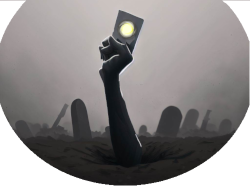
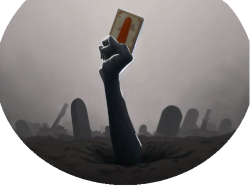
bug fixed; arcanemorphose image

diff --git a/theSorcerer/src/main/java/theSorcerer/modifiers/ElementalCostMod.java b/theSorcerer/src/main/java/theSorcerer/modifiers/ElementalCostMod.java
@@ -3,11 +3,15 @@ package theSorcerer.modifiers;
 import basemod.abstracts.AbstractCardModifier;
 import basemod.interfaces.AlternateCardCostModifier;
 import com.evacipated.cardcrawl.modthespire.lib.*;
+import com.megacrit.cardcrawl.actions.utility.UseCardAction;
 import com.megacrit.cardcrawl.cards.AbstractCard;
 import com.megacrit.cardcrawl.characters.AbstractPlayer;
+import com.megacrit.cardcrawl.core.AbstractCreature;
 import com.megacrit.cardcrawl.monsters.AbstractMonster;
 import javassist.CtBehavior;
 import theSorcerer.DynamicDungeon;
+import theSorcerer.cards.DynamicCard;
+import theSorcerer.util.ElementAmount;
 
 import static theSorcerer.modifiers.CardModifier.ELEMENTCOST;
 
@@ -17,9 +21,15 @@ public class ElementalCostMod extends AbstractCardModifier implements AlternateC
 
     private static final String ELEMENTCOST_DESCRIPTION = ID + ". NL ";
 
+    private boolean elementCostCardPlayed = false;
+
     @Override
     public int getAlternateResource(AbstractCard card) {
-        return DynamicDungeon.getElementAmount();
+        return DynamicDungeon.getElementAmount().getAmount();
+    }
+
+    public void onUse(AbstractCard card, AbstractCreature target, UseCardAction action) {
+        this.elementCostCardPlayed = true;
     }
 
     @Override
@@ -32,19 +42,40 @@ public class ElementalCostMod extends AbstractCardModifier implements AlternateC
         return true;
     }
 
-    // TODOO: use patch to set element amount and use it in use of the card
     @Override
     public int spendAlternateCost(AbstractCard card, int costToSpend) {
-        int resource = getAlternateResource(card);
+        final ElementAmount elementAmount = DynamicDungeon.getElementAmount();
+        final int resource = elementAmount.getAmount();
         if (resource > costToSpend) {
-            DynamicDungeon.loseElements(costToSpend);
+            loseElements(card, elementAmount, costToSpend);
             costToSpend = 0;
         }
         else if (resource > 0) {
-            DynamicDungeon.loseElements(resource);
+            loseElements(card, elementAmount, resource);
             costToSpend -= resource;
         }
         return costToSpend;
+    }
+
+    private void loseElements(
+            final AbstractCard card,
+            final ElementAmount currentElementAmount,
+            final int costToSpend
+    ) {
+        if (!this.elementCostCardPlayed) {
+            return;
+        }
+        this.elementCostCardPlayed = false;
+
+        DynamicDungeon.loseElements(costToSpend);
+        if (card instanceof DynamicCard) {
+            ((DynamicCard) card).triggerOnElementCost(
+                    new ElementAmount(
+                            currentElementAmount.isHeated() ? costToSpend : 0,
+                            currentElementAmount.isChilled() ? costToSpend : 0
+                    )
+            );
+        }
     }
 
     @Override

diff --git a/theSorcerer/src/main/java/theSorcerer/cards/Renounce.java b/theSorcerer/src/main/java/theSorcerer/cards/Renounce.java
@@ -4,6 +4,7 @@ import com.megacrit.cardcrawl.characters.AbstractPlayer;
 import com.megacrit.cardcrawl.monsters.AbstractMonster;
 import theSorcerer.DynamicDungeon;
 import theSorcerer.modifiers.CardModifier;
+import theSorcerer.util.ElementAmount;
 
 public class Renounce extends SorcererCard {
 
@@ -12,6 +13,8 @@ public class Renounce extends SorcererCard {
     private static final int CARD_AMOUNT_DRAW = 1;
     private static final int ENERGY_GAIN = 1;
     // --- VALUES END ---
+
+    private ElementAmount elementAmountSpend = ElementAmount.empty();
 
     public Renounce() {
         super(
@@ -26,19 +29,19 @@ public class Renounce extends SorcererCard {
     }
 
     @Override
+    public void triggerOnElementCost(final ElementAmount elementAmountSpend) {
+        this.elementAmountSpend = elementAmountSpend;
+    }
+
+    @Override
     public void use(AbstractPlayer player, AbstractMonster monster) {
-        int heatedAmount = DynamicDungeon.getHeatedAmount();
-        int chilledAmount = DynamicDungeon.getChilledAmount();
-        if (this.upgraded) {
-            heatedAmount = DynamicDungeon.getElementAmount();
-            chilledAmount = heatedAmount;
+        if (this.elementAmountSpend.isHeated() || (this.upgraded && this.elementAmountSpend.hasAmount())) {
+            DynamicDungeon.gainEnergy(this.magicNumber * this.elementAmountSpend.getAmount());
+        }
+        if (this.elementAmountSpend.isChilled() || (this.upgraded && this.elementAmountSpend.hasAmount())) {
+            DynamicDungeon.drawCard(this.magicNumber * this.elementAmountSpend.getAmount());
         }
 
-        if (heatedAmount > 0) {
-            DynamicDungeon.gainEnergy(this.magicNumber * heatedAmount);
-        }
-        if (chilledAmount > 0) {
-            DynamicDungeon.drawCard(this.magicNumber * chilledAmount);
-        }
+        this.elementAmountSpend = ElementAmount.empty();
     }
 }

diff --git a/theSorcerer/src/main/java/theSorcerer/actions/ElementalPathAction.java b/theSorcerer/src/main/java/theSorcerer/actions/ElementalPathAction.java
@@ -2,13 +2,15 @@ package theSorcerer.actions;
 
 import com.megacrit.cardcrawl.actions.AbstractGameAction;
 import theSorcerer.DynamicDungeon;
+import theSorcerer.util.ElementAmount;
 
 public class ElementalPathAction extends AbstractGameAction {
 
     @Override
     public void update() {
-        int elementAmount = DynamicDungeon.getElementAmount();
-        if (elementAmount > 0) {
+        final ElementAmount elementAmount = DynamicDungeon.getElementAmount();
+
+        if (elementAmount.hasAmount()) {
             switchElements(elementAmount);
         }
 
@@ -16,13 +18,13 @@ public class ElementalPathAction extends AbstractGameAction {
         this.actionType = ActionType.SPECIAL;
     }
 
-    private void switchElements(final int elementAmount) {
+    private void switchElements(final ElementAmount elementAmount) {
         DynamicDungeon.loseAllElements();
-        if (DynamicDungeon.isHeated()) {
-            DynamicDungeon.applyChilled(elementAmount);
+        if (elementAmount.isHeated()) {
+            DynamicDungeon.applyChilled(elementAmount.getHeated());
         }
-        else if (DynamicDungeon.isChilled()) {
-            DynamicDungeon.applyHeated(elementAmount);
+        else if (elementAmount.isChilled()) {
+            DynamicDungeon.applyHeated(elementAmount.getChilled());
         }
     }
 }

diff --git a/theSorcerer/src/main/java/theSorcerer/effect/CampfireArcanemorphoseEffect.java b/theSorcerer/src/main/java/theSorcerer/effect/CampfireArcanemorphoseEffect.java
@@ -38,7 +38,7 @@ public class CampfireArcanemorphoseEffect extends AbstractGameEffect {
     }
 
 
-    // TODO beautify
+    // TODOO beautify
     @Override
     public void update() {
         if (!AbstractDungeon.isScreenUp) {
@@ -52,12 +52,12 @@ public class CampfireArcanemorphoseEffect extends AbstractGameEffect {
 
             while(var1.hasNext()) {
                 AbstractCard c = (AbstractCard)var1.next();
-                AbstractDungeon.effectsQueue.add(new UpgradeShineEffect((float)Settings.WIDTH / 2.0F, (float)Settings.HEIGHT / 2.0F));
                 CardCrawlGame.metricData.addCampfireChoiceData("ARCANE", c.getMetricID());
                 AbstractCardPatch.arcane.set(c, true);
                 DynamicDungeon.modifyCardInDeck(c);
                 DynamicDungeon.withRelicDo(TreeOfLife.class, AbstractRelic::flash);
                 AbstractDungeon.effectsQueue.add(new ShowCardBrieflyEffect(c.makeStatEquivalentCopy()));
+                AbstractDungeon.topLevelEffects.add(new UpgradeShineEffect((float)Settings.WIDTH / 2.0F, (float)Settings.HEIGHT / 2.0F));
             }
 
             AbstractDungeon.gridSelectScreen.selectedCards.clear();

diff --git a/theSorcerer/src/main/java/theSorcerer/DynamicDungeon.java b/theSorcerer/src/main/java/theSorcerer/DynamicDungeon.java
@@ -1,5 +1,6 @@
 package theSorcerer;
 
+import basemod.Pair;
 import basemod.abstracts.AbstractCardModifier;
 import basemod.cardmods.EtherealMod;
 import basemod.cardmods.ExhaustMod;
@@ -42,6 +43,7 @@ import theSorcerer.relics.DynamicRelic;
 import theSorcerer.relics.ElementalMaster;
 import theSorcerer.relics.ElementalPets;
 import theSorcerer.relics.ProtectingGloves;
+import theSorcerer.util.ElementAmount;
 
 import java.util.*;
 import java.util.function.Consumer;
@@ -398,12 +400,8 @@ public class DynamicDungeon {
         return amount;
     }
 
-    public static int getElementAmount() {
-        int amount = DynamicDungeon.getHeatedAmount();
-        if (amount <= 0) {
-            amount = DynamicDungeon.getChilledAmount();
-        }
-        return amount;
+    public static ElementAmount getElementAmount() {
+        return new ElementAmount(getHeatedAmount(), getChilledAmount());
     }
 
     public static void loseHeated() {

diff --git a/theSorcerer/src/main/java/theSorcerer/ui/campfire/ArcanemorphoseOption.java b/theSorcerer/src/main/java/theSorcerer/ui/campfire/ArcanemorphoseOption.java
@@ -5,6 +5,8 @@ import com.megacrit.cardcrawl.helpers.ImageMaster;
 import com.megacrit.cardcrawl.ui.campfire.AbstractCampfireOption;
 import theSorcerer.effect.CampfireArcanemorphoseEffect;
 
+import static theSorcerer.KirbyDeeMod.makeUiPath;
+
 public class ArcanemorphoseOption extends AbstractCampfireOption {
 
     private static final String[] TEXT = new String[] {"Arcanemorphose", "Change a card in your deck to become Arcane."}; // TODOO
@@ -13,7 +15,11 @@ public class ArcanemorphoseOption extends AbstractCampfireOption {
         this.usable = active;
         this.label = TEXT[0];
         this.description = TEXT[1];
-        this.img = ImageMaster.CAMPFIRE_TOKE_BUTTON; // TODOO
+        this.img = ImageMaster.loadImage(getImagePath());
+    }
+
+    private static String getImagePath() {
+        return makeUiPath("campfire/arcanemorphose.png");
     }
 
     public void useOption() {

diff --git a/theSorcerer/src/main/java/theSorcerer/util/ElementAmount.java b/theSorcerer/src/main/java/theSorcerer/util/ElementAmount.java
@@ -1,0 +1,44 @@
+package theSorcerer.util;
+
+public class ElementAmount {
+
+    private final int heated;
+    
+    private final int chilled;
+
+    public ElementAmount(
+            int heated,
+            int chilled
+    ) {
+        this.heated = heated;
+        this.chilled = chilled;
+    }
+
+    public static ElementAmount empty() {
+        return new ElementAmount(0, 0);
+    }
+
+    public boolean hasAmount() {
+        return isHeated() || isChilled();
+    }
+
+    public boolean isHeated() {
+        return this.heated > 0;
+    }
+
+    public boolean isChilled() {
+        return this.chilled > 0;
+    }
+
+    public int getAmount() {
+        return Math.max(this.heated, this.chilled);
+    }
+
+    public int getHeated() {
+        return this.heated;
+    }
+
+    public int getChilled() {
+        return this.chilled;
+    }
+}

diff --git a/theSorcerer/src/main/java/theSorcerer/cards/arcane/ArcaneComets.java b/theSorcerer/src/main/java/theSorcerer/cards/arcane/ArcaneComets.java
@@ -11,8 +11,8 @@ public class ArcaneComets extends SorcererArcaneCard {
     // --- VALUES START ---
     private static final int COST = 2;
     private static final int DAMAGE = 2;
-    private static final int UPGRADE_DAMAGE = 1;
     private static final int DAMAGE_TIMES = 4;
+    private static final int UPGRADE_DAMAGE_TIMES = 1;
     // --- VALUES END ---
 
     public ArcaneComets() {
@@ -40,6 +40,6 @@ public class ArcaneComets extends SorcererArcaneCard {
 
     @Override
     protected void upgradeValues() {
-        upgradeDamage(UPGRADE_DAMAGE);
+        upgradeMagicNumber(UPGRADE_DAMAGE_TIMES);
     }
 }

diff --git a/theSorcerer/src/main/java/theSorcerer/cards/DynamicCard.java b/theSorcerer/src/main/java/theSorcerer/cards/DynamicCard.java
@@ -8,6 +8,7 @@ import org.apache.commons.lang3.StringUtils;
 import theSorcerer.DynamicDungeon;
 import theSorcerer.KirbyDeeMod;
 import theSorcerer.modifiers.CardModifier;
+import theSorcerer.util.ElementAmount;
 
 import java.util.Arrays;
 import java.util.HashSet;
@@ -310,6 +311,8 @@ public abstract class DynamicCard extends CustomCard {
     public void triggerOnFuturity() {}
 
     public void triggerOnElementless() {}
+
+    public void triggerOnElementCost(final ElementAmount elementAmountSpend) {}
 
     @Override
     public AbstractCard makeStatEquivalentCopy() {

diff --git a/theSorcerer/src/main/java/theSorcerer/cards/Brawl.java b/theSorcerer/src/main/java/theSorcerer/cards/Brawl.java
@@ -12,7 +12,7 @@ public class Brawl extends SorcererCard {
 
     // --- VALUES START ---
     private static final int COST = 0;
-    private static final int DAMAGE = 5;
+    private static final int DAMAGE = 6;
     private static final int UPGRADE_DAMAGE = 3;
     // --- VALUES END ---
 
@@ -42,6 +42,7 @@ public class Brawl extends SorcererCard {
     public void triggerOnElementless() {
         if (AbstractDungeon.player.discardPile.group.contains(this)) {
             addToBot(new DiscardToHandAction(this));
+            superFlash();
         }
     }
 

diff --git a/theSorcerer/src/main/java/theSorcerer/cards/UndecidedChoice.java b/theSorcerer/src/main/java/theSorcerer/cards/UndecidedChoice.java
@@ -12,10 +12,10 @@ import theSorcerer.DynamicDungeon;
 public class UndecidedChoice extends SorcererCard {
 
     // --- VALUES START ---
-    private static final int COST = 1;
-    private static final int DAMAGE = 5;
+    private static final int COST = 2;
+    private static final int DAMAGE = 8;
     private static final int UPGRADE_PLUS_DAMAGE = 3;
-    private static final int BLOCK = 4;
+    private static final int BLOCK = 7;
     private static final int UPGRADE_PLUS_BLOCK = 3;
     // --- VALUES END ---
 

diff --git a/theSorcerer/src/main/java/theSorcerer/characters/TheSorcerer.java b/theSorcerer/src/main/java/theSorcerer/characters/TheSorcerer.java
@@ -180,7 +180,6 @@ public class TheSorcerer extends CustomPlayer {
         // TODOO: effect -> addToTop(new VFXAction(new FlashAtkImgEffect(this.target.hb.cX, this.target.hb.cY, this.attackEffect)));
         // TODOO: SoundMaster -> addToTop(new SFXAction("ORB_DARK_EVOKE", 0.1F));
         // TODOO: dar pile fucked up if I do flashback or something similar?
-        // TODOO: how does ElementalCost with Arcane work?
 
         return retVal;
     }
